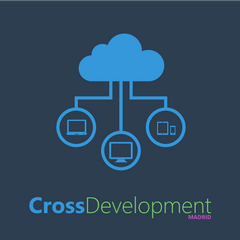
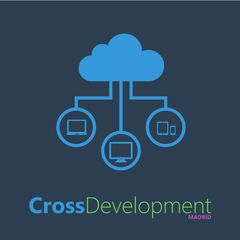
Improve images optimization

diff --git a/layouts/partials/communities.html b/layouts/partials/communities.html
@@ -5,16 +5,24 @@
   <div class="communities">
     {{ range $.Site.Data.communities }}
     {{ $normalizedName := .name | replaceRE "[^a-zA-Z0-9]+" "-" }}
-    {{ $logo := cond (isset . "logo") (cond (isset .logo "file") .logo.file (printf "%s.%s" $normalizedName .logo.type)) (printf "%s.png" $normalizedName) }}
+    {{ $logo := cond (isset . "logo") (cond (isset .logo "file") .logo.file (printf "%s.%s" $normalizedName .logo.type)) (printf "%s.jpg" $normalizedName) }}
     <a
       href="{{.href | safeURL }}"
       target="_blank"
       class="community {{$normalizedName}}"
       title="{{.name}}"
       rel="noopener noreferrer"
-      style='background-image: url("/img/communities/{{$logo}}");'
-      >{{.name}}</a
-    >
+      >
+        {{ if strings.HasSuffix $logo "svg" }}
+          <img src="/img/communities/{{$logo}}" loading="lazy" alt="{{.name}}" class="community-logo {{$normalizedName}}">
+        {{ else }}
+          <picture>
+            <source srcset="/img/communities/{{replace $logo ".jpg" ".webp"}}" type="image/webp">
+            <source srcset="/img/communities/{{$logo}}" type="image/jpeg">
+            <img src="/img/communities/{{$logo}}" loading="lazy" alt="{{.name}}" class="community-logo {{$normalizedName}}">
+          </picture>
+        {{ end }}
+    </a>
     {{ end }}
   </div>
   <div><small>{{i18n "AddYourComunity" | safeHTML}}</small></div>

diff --git a/layouts/_default/sponsors.html b/layouts/_default/sponsors.html
@@ -9,8 +9,16 @@
           {{ range $category.items }}
           {{ $normalizedName := .name | replaceRE "[^a-zA-Z0-9]+" "-" | lower }}
           {{ $logo := cond (isset . "logo") (cond (isset .logo "file") .logo.file (printf "%s.%s" $normalizedName .logo.type)) (printf "%s.svg" $normalizedName) }}
-          <a href="{{.href | safeURL }}" alt="{{.name}}" title="{{.name}}" class="sponsor" target="_blank" rel="noopner noreferrer">
-            <img src="/img/sponsors/{{$logo}}" class="sponsor-img {{$normalizedName}}">
+          <a href="{{.href | safeURL }}" title="{{.name}}" class="sponsor" target="_blank" rel="noopner noreferrer">
+            {{ if strings.HasSuffix $logo "svg" }}
+              <img src="/img/sponsors/{{$logo}}" loading="lazy" alt="{{.name}}" class="sponsor-img {{$normalizedName}}">
+            {{ else }}
+              <picture>
+                <source srcset="/img/sponsors/{{replace $logo ".jpg" ".webp"}}" type="image/webp">
+                <source srcset="/img/sponsors/{{$logo}}" type="image/jpeg">
+                <img src="/img/sponsors/{{$logo}}" loading="lazy" alt="{{.name}}" class="sponsor-img {{$normalizedName}}">
+              </picture>
+            {{ end }}
           </a>
           {{ end }}
         </div>

diff --git a/layouts/partials/sponsors-small.html b/layouts/partials/sponsors-small.html
@@ -16,7 +16,15 @@
                 <a href="{{.href | safeURL }}" itemprop="url" title="{{.name}}" class="sponsor {{$normalizedCategoryName}}" target="_blank" rel="noopner noreferrer">
                   <meta itemprop="name" content="{{.name}}">
                   <meta itemprop="logo" content="{{ print "/img/sponsors/" $logo | absURL }}">
-                  <img src="/img/sponsors/{{$logo}}" alt="{{.name}}" class="sponsor-img {{$normalizedName}}">
+                  {{ if strings.HasSuffix $logo "svg" }}
+                    <img src="/img/sponsors/{{$logo}}" loading="lazy" alt="{{.name}}" class="sponsor-img {{$normalizedName}}">
+                  {{ else }}
+                    <picture>
+                      <source srcset="/img/sponsors/{{replace $logo ".jpg" ".webp"}}" type="image/webp">
+                      <source srcset="/img/sponsors/{{$logo}}" type="image/jpeg">
+                      <img src="/img/sponsors/{{$logo}}" loading="lazy" alt="{{.name}}" class="sponsor-img {{$normalizedName}}">
+                    </picture>
+                  {{ end }}
                 </a>
               </div>
             {{ end }}
